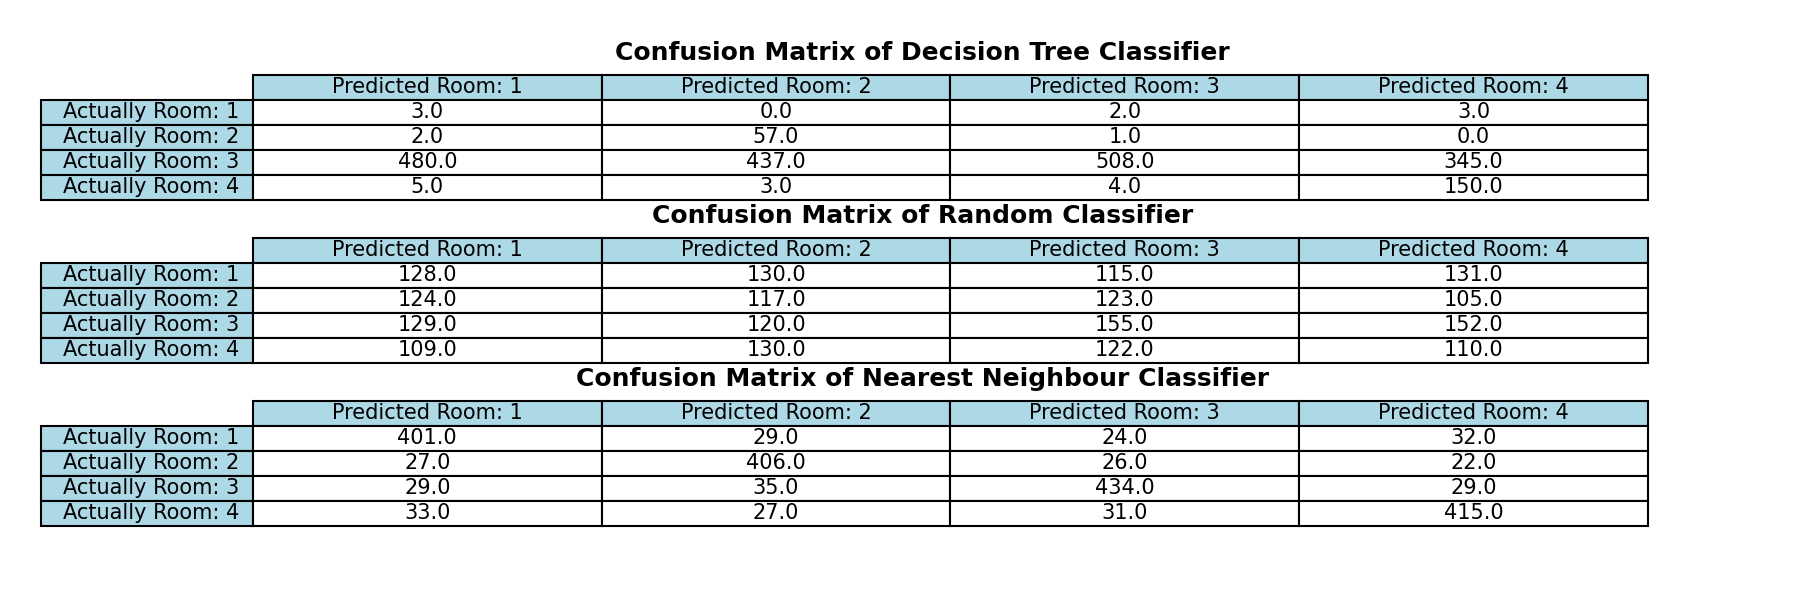
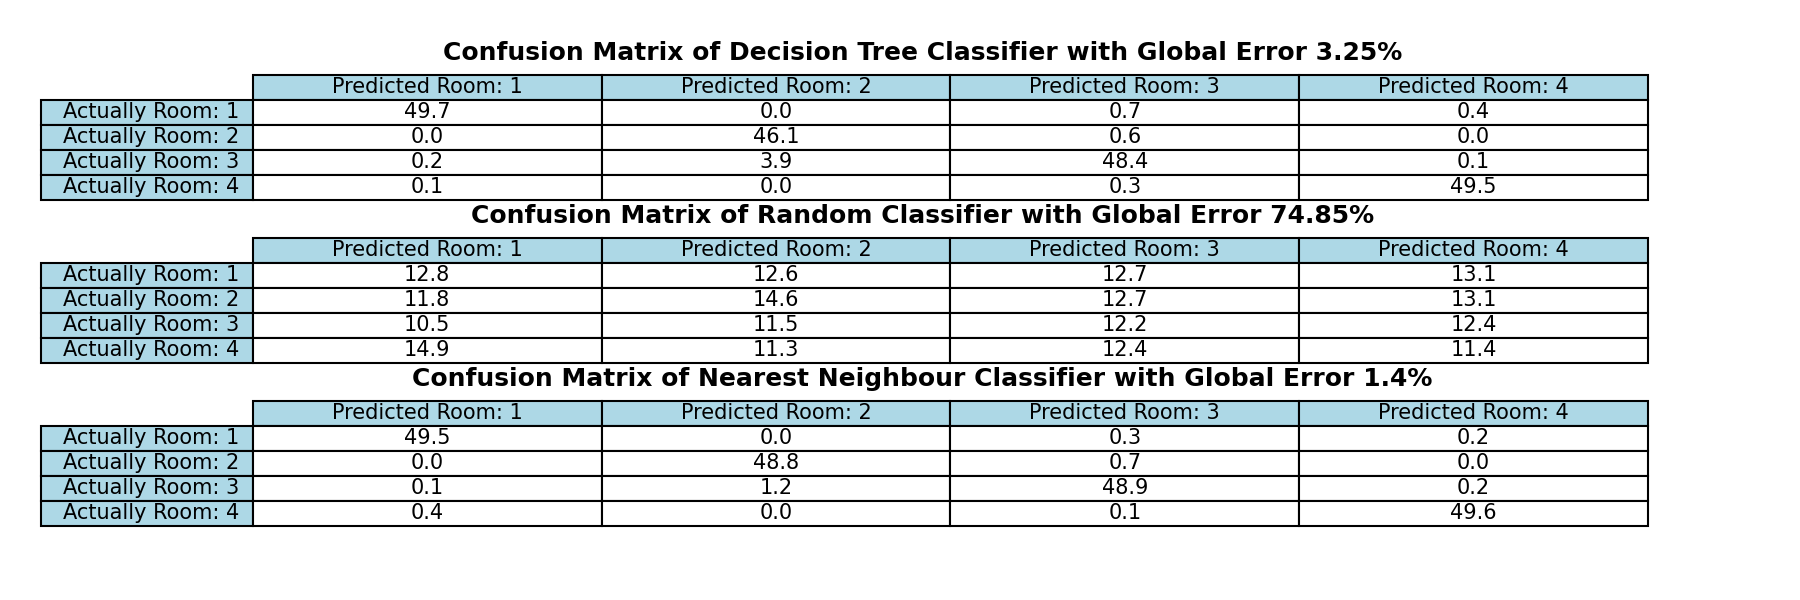
fixed confusion matrix

diff --git a/Testbenches.py b/Testbenches.py
@@ -120,23 +120,19 @@ class Model_Comparison_TB():
 
                 (labels, actual, guess) = specific_model.confusion_constructor()
                 
-                if model == Decision_Tree_Classifier.Tree: print([actual, guess])
+                #if model == Decision_Tree_Classifier.Tree: print([actual, guess])
                 
                 
                 name = specific_model.name()
                 if name not in list(confusion.keys()):
-                    confusion[name] = (confusion_matrix(actual, guess, class_labels=labels))
+                    confusion[name] = np.array(confusion_matrix(actual, guess, class_labels=labels))
                     
                 else:
                     toAdd = (confusion_matrix(actual, guess, class_labels=labels))
-                    for row_index, row in enumerate(toAdd):
-                        
-                        for col_index, cell in enumerate(row):
-                            
-                            confusion[name][row_index][col_index] += cell
-                            #confusion[name][row_index][col_index] += cell / num_folds
+                
+                    confusion[name] += np.array(toAdd)
 
-        if(0):
+        if(1): #used for quick disabling
             for name, matrix in confusion.items():     
                 for rowIndex, row in enumerate(matrix):
                     for colIndex, cell in enumerate(row):
@@ -207,8 +203,11 @@ class Model_Comparison_TB():
                     
                     
             for model in self.models:
-                instance = model(self.dataset, train_given = np.array(train_set), test_given = np.array(test_set))
-
+                if model == Decision_Tree_Classifier.Tree:
+                    instance = model(self.dataset, self.tree_depth, train_given = np.array(train_set), test_given = np.array(test_set))
+                else:
+                    instance = model(self.dataset, train_given = np.array(train_set), test_given = np.array(test_set))
+                
                 success = instance.evaluate_internal()
                 
                 counter = 0
@@ -237,7 +236,7 @@ class Model_Comparison_TB():
 
         
         fig, ax = plt.subplots(len(self.models), 1, figsize=(12, 4))
-        
+        self.global_Error()
         plotNum = 0
         for model, matrix in self.confusion.items():
             col_labs = ["Predicted Room: {}".format(x) for x in range(1, len(matrix[0]) + 1)] 
@@ -254,13 +253,13 @@ class Model_Comparison_TB():
                 cellLoc ='center',  
                 loc ='upper left')         
             
-            ax[plotNum].set_title("Confusion Matrix of " + model, fontweight ="bold") 
+            ax[plotNum].set_title("Confusion Matrix of {a} with Global Error {b}%".format(a=model, b= round((1 - self.global_error[model]) * 100, 2) ), fontweight ="bold") 
             
             plotNum += 1
             
         plt.savefig('./figures/confusion_matricies.png', dpi=150)
         
-        
+
         fig1, ax1 = plt.subplots(len(self.models), 1)
         col_labels = ["Precision", "Recall", "F1 Score"]
         
@@ -290,7 +289,8 @@ class Model_Comparison_TB():
                 cellLoc ='center',  
                 loc ='upper left')    
             
-            ax1[plotNum].set_title("Performance metrics of " + model, fontweight ="bold")      
+
+            ax1[plotNum].set_title("Performance Metrics of {a}".format(a=model), fontweight ="bold")      
             plotNum += 1
         
 
